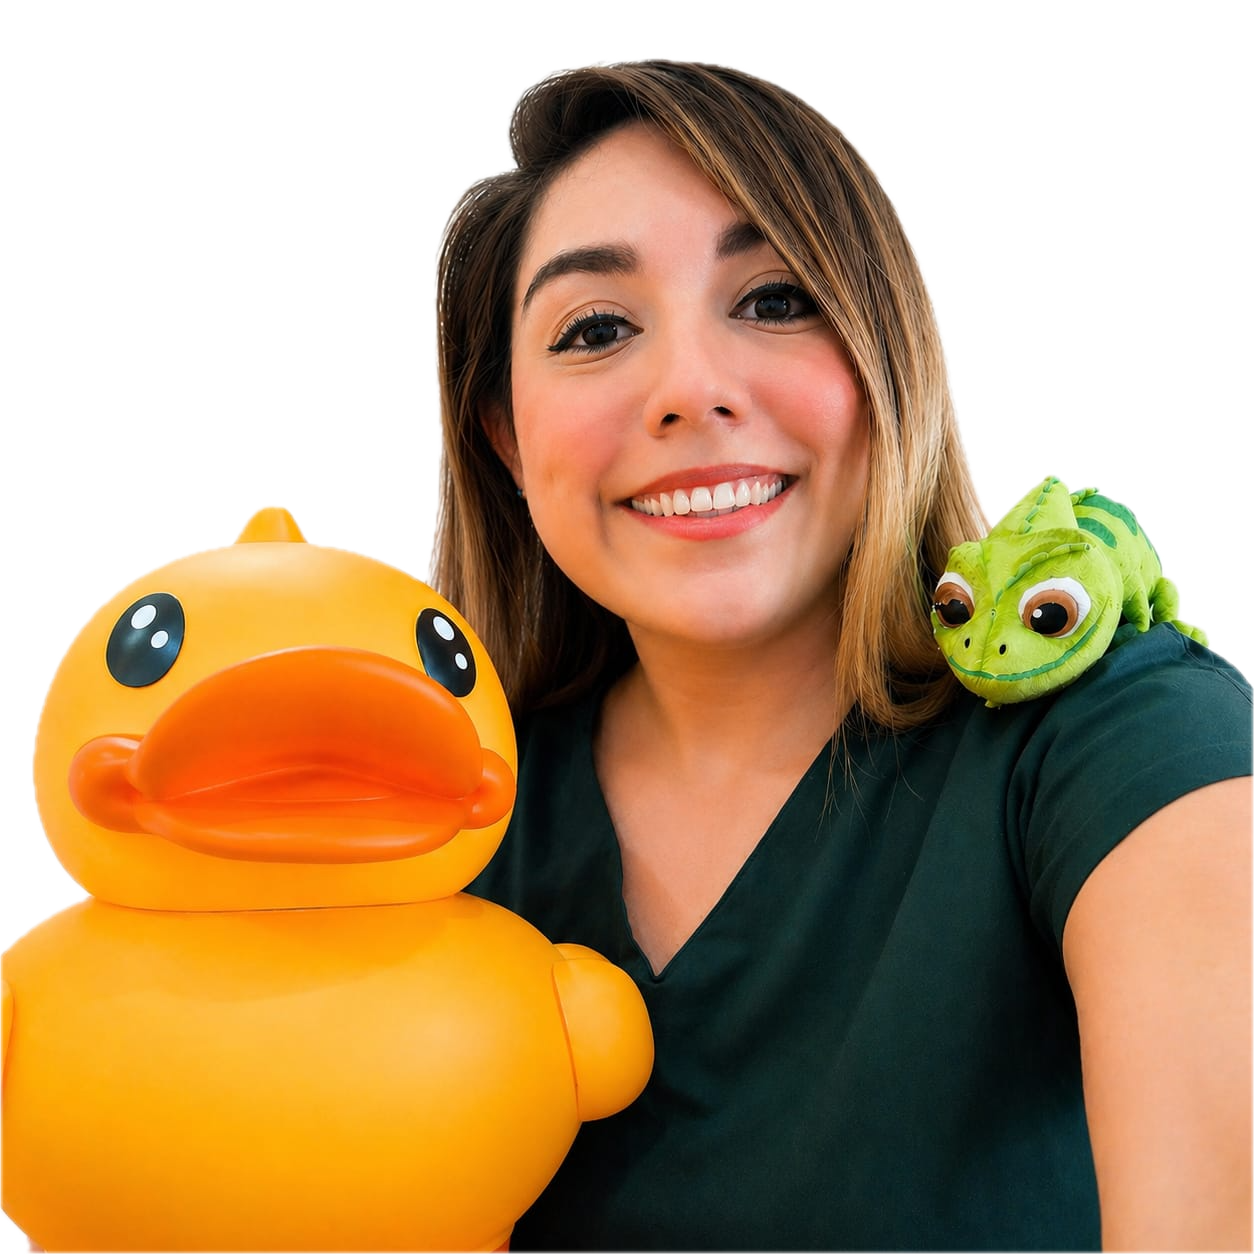
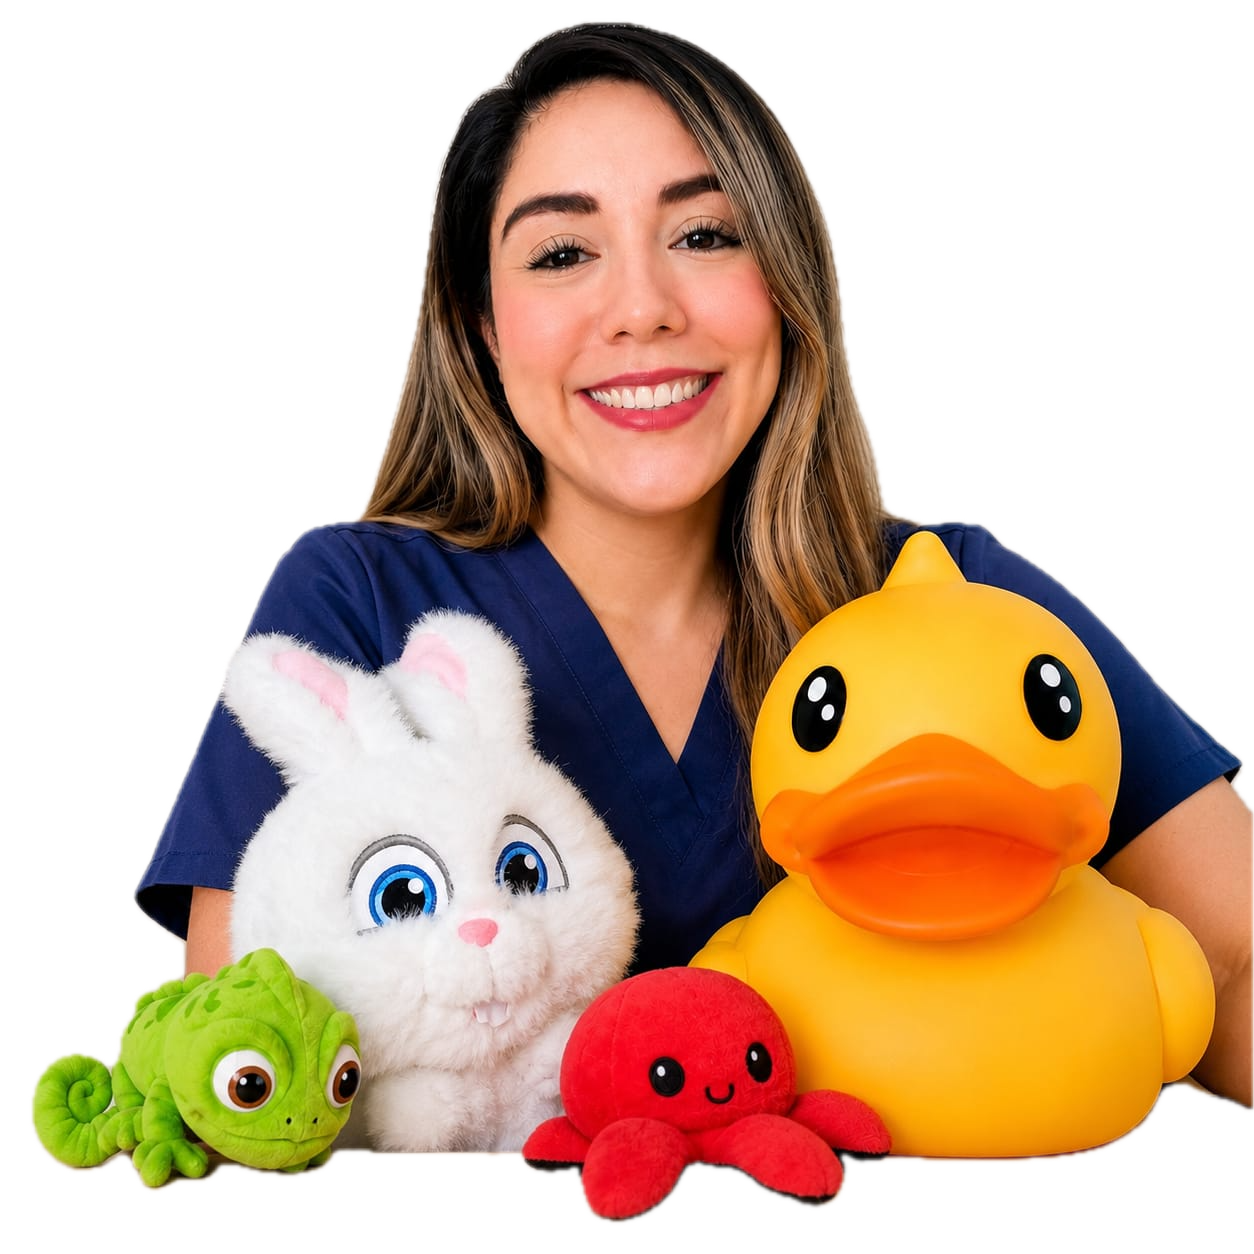
changed doctor image

diff --git a/components/AboutSection.tsx b/components/AboutSection.tsx
@@ -53,25 +53,24 @@ export default function AboutSection() {
       </div>
 
       <div className="mx-auto max-w-7xl px-4 sm:px-6 lg:px-8 pb-10 lg:pb-0">
-        <div className="grid grid-cols-1 lg:grid-cols-2 gap-0 items-stretch">
+        <div className="grid grid-cols-1 lg:grid-cols-2 items-center">
 
           {/* Doctor image — slides in from the left */}
           <div
-            className="relative hidden lg:flex justify-center transition-all duration-700 ease-out"
+            className="relative hidden lg:block transition-all duration-700 ease-out"
             style={{
+              height: '70vh',
               opacity: visible ? 1 : 0,
               transform: visible ? "translateX(0)" : "translateX(-60px)",
             }}
           >
-            <div className="relative w-full h-full">
-              <Image
-                src="/doctor.png"
-                alt={t.common.doctorName}
-                fill
-                className="object-cover object-top rounded-2xl"
-                sizes="25vw"
-              />
-            </div>
+            <Image
+              src="/doctor.png"
+              alt={t.common.doctorName}
+              fill
+              className="object-contain object-top rounded-2xl"
+              sizes="50vw"
+            />
           </div>
 
           {/* Mobile image */}
